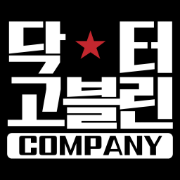
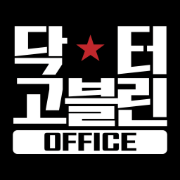
feat(branding): 파비콘·웹앱 아이콘을 새 로고로 교체
- favicon.ico/svg, favicon-96, apple-touch-icon(180), icon-192/512 교체
- 캐시 무효화 v=2→v=3, SVG 파비콘 링크 추가

diff --git a/resources/views/layouts/app.blade.php b/resources/views/layouts/app.blade.php
@@ -15,10 +15,11 @@
     <meta name="apple-mobile-web-app-status-bar-style" content="default">
     <meta name="apple-mobile-web-app-title" content="@yield('pwa_title', '닥터고블린 오피스')">
     <link rel="manifest" href="@yield('pwa_manifest', '/manifest.json')">
-    <link rel="apple-touch-icon" href="/icon-192.png">
-    <link rel="apple-touch-icon" sizes="192x192" href="/icon-192.png">
-    <link rel="apple-touch-icon" sizes="512x512" href="/icon-512.png">
-    <link rel="icon" href="/favicon.ico?v=2" sizes="48x48">
+    <link rel="apple-touch-icon" href="/apple-touch-icon.png?v=3">
+    <link rel="apple-touch-icon" sizes="192x192" href="/icon-192.png?v=3">
+    <link rel="apple-touch-icon" sizes="512x512" href="/icon-512.png?v=3">
+    <link rel="icon" href="/favicon.ico?v=3" sizes="48x48">
+    <link rel="icon" type="image/svg+xml" href="/favicon.svg?v=3">
     <title>닥터고블린 오피스</title>
     <link rel="stylesheet" as="style" crossorigin href="https://cdn.jsdelivr.net/gh/orioncactus/pretendard@v1.3.9/dist/web/variable/pretendardvariable-dynamic-subset.min.css">
     <style>

diff --git a/tests/Feature/TabShellLayoutTest.php b/tests/Feature/TabShellLayoutTest.php
@@ -21,4 +21,20 @@ class TabShellLayoutTest extends TestCase
             ->assertSee('calc(100dvh / var(--ui-zoom, 1) - var(--chrome-h, 86px))', false)
             ->assertDontSee('calc(100dvh - var(--chrome-h, 86px))', false);
     }
+
+    public function test_favicon_and_pwa_icons_use_new_logo_version(): void
+    {
+        $user = User::factory()->create(['role' => 'admin']);
+
+        $this->actingAs($user)->get('/')
+            ->assertOk()
+            ->assertSee('/favicon.ico?v=3', false)
+            ->assertSee('/favicon.svg?v=3', false)
+            ->assertSee('/apple-touch-icon.png?v=3', false)
+            ->assertSee('/icon-192.png?v=3', false);
+
+        foreach (['favicon.ico', 'favicon.svg', 'icon-192.png', 'icon-512.png', 'apple-touch-icon.png', 'favicon-96x96.png'] as $f) {
+            $this->assertFileExists(public_path($f));
+        }
+    }
 }
